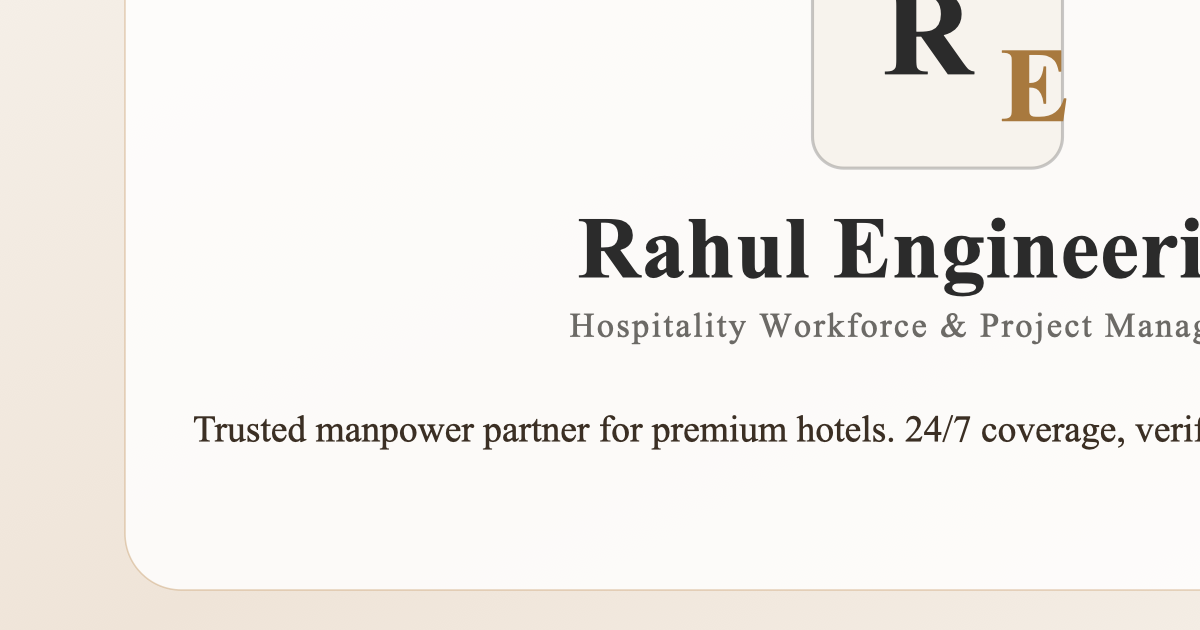
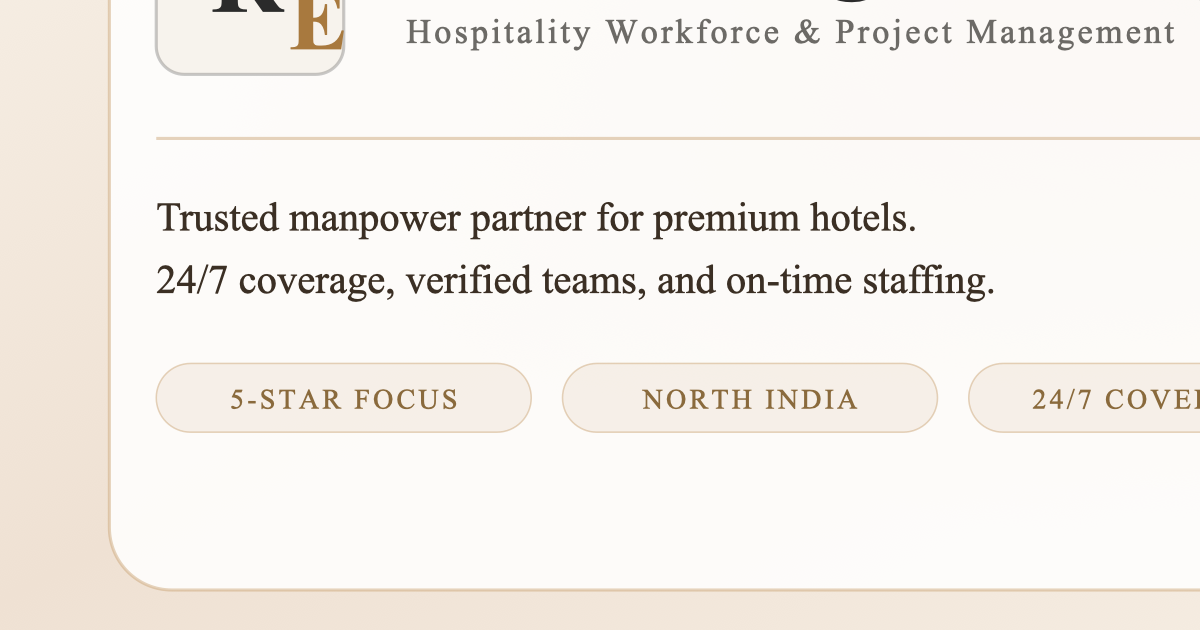
Refresh OG image design

diff --git a/app/head.js b/app/head.js
@@ -11,11 +11,11 @@ export default function Head() {
       <meta property="og:site_name" content="Rahul Engineering" />
       <meta
         property="og:image"
-        content="https://www.rahulengineerings.com/og.jpg?v=5"
+        content="https://www.rahulengineerings.com/og.jpg?v=6"
       />
       <meta
         property="og:image:secure_url"
-        content="https://www.rahulengineerings.com/og.jpg?v=5"
+        content="https://www.rahulengineerings.com/og.jpg?v=6"
       />
       <meta property="og:image:type" content="image/jpeg" />
       <meta property="og:image:width" content="1200" />
@@ -26,7 +26,7 @@ export default function Head() {
       <meta name="twitter:description" content={description} />
       <meta
         name="twitter:image"
-        content="https://www.rahulengineerings.com/og.jpg?v=5"
+        content="https://www.rahulengineerings.com/og.jpg?v=6"
       />
       <link rel="canonical" href="https://www.rahulengineerings.com" />
     </>

diff --git a/app/layout.js b/app/layout.js
@@ -16,7 +16,7 @@ export const metadata = {
     type: "website",
     images: [
       {
-        url: "https://www.rahulengineerings.com/og.jpg?v=5",
+        url: "https://www.rahulengineerings.com/og.jpg?v=6",
         width: 1200,
         height: 630,
         alt: "Rahul Engineering"
@@ -27,7 +27,7 @@ export const metadata = {
     card: "summary_large_image",
     title: "Rahul Engineering",
     description,
-    images: ["https://www.rahulengineerings.com/og.jpg?v=5"]
+    images: ["https://www.rahulengineerings.com/og.jpg?v=6"]
   }
 };
 
